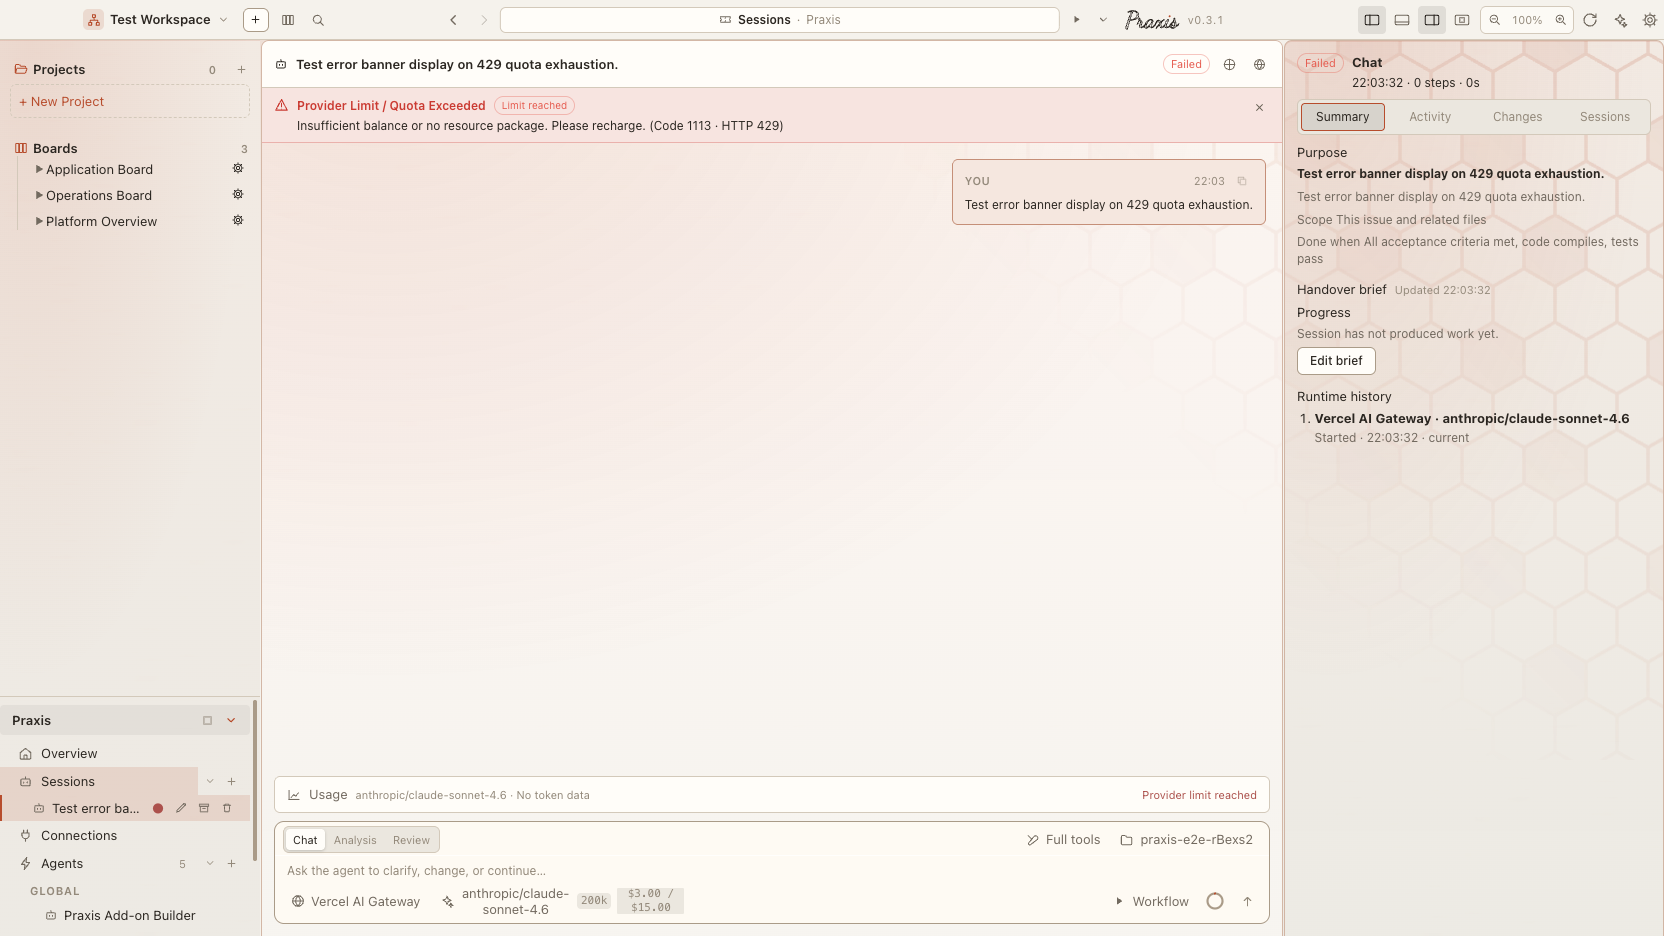
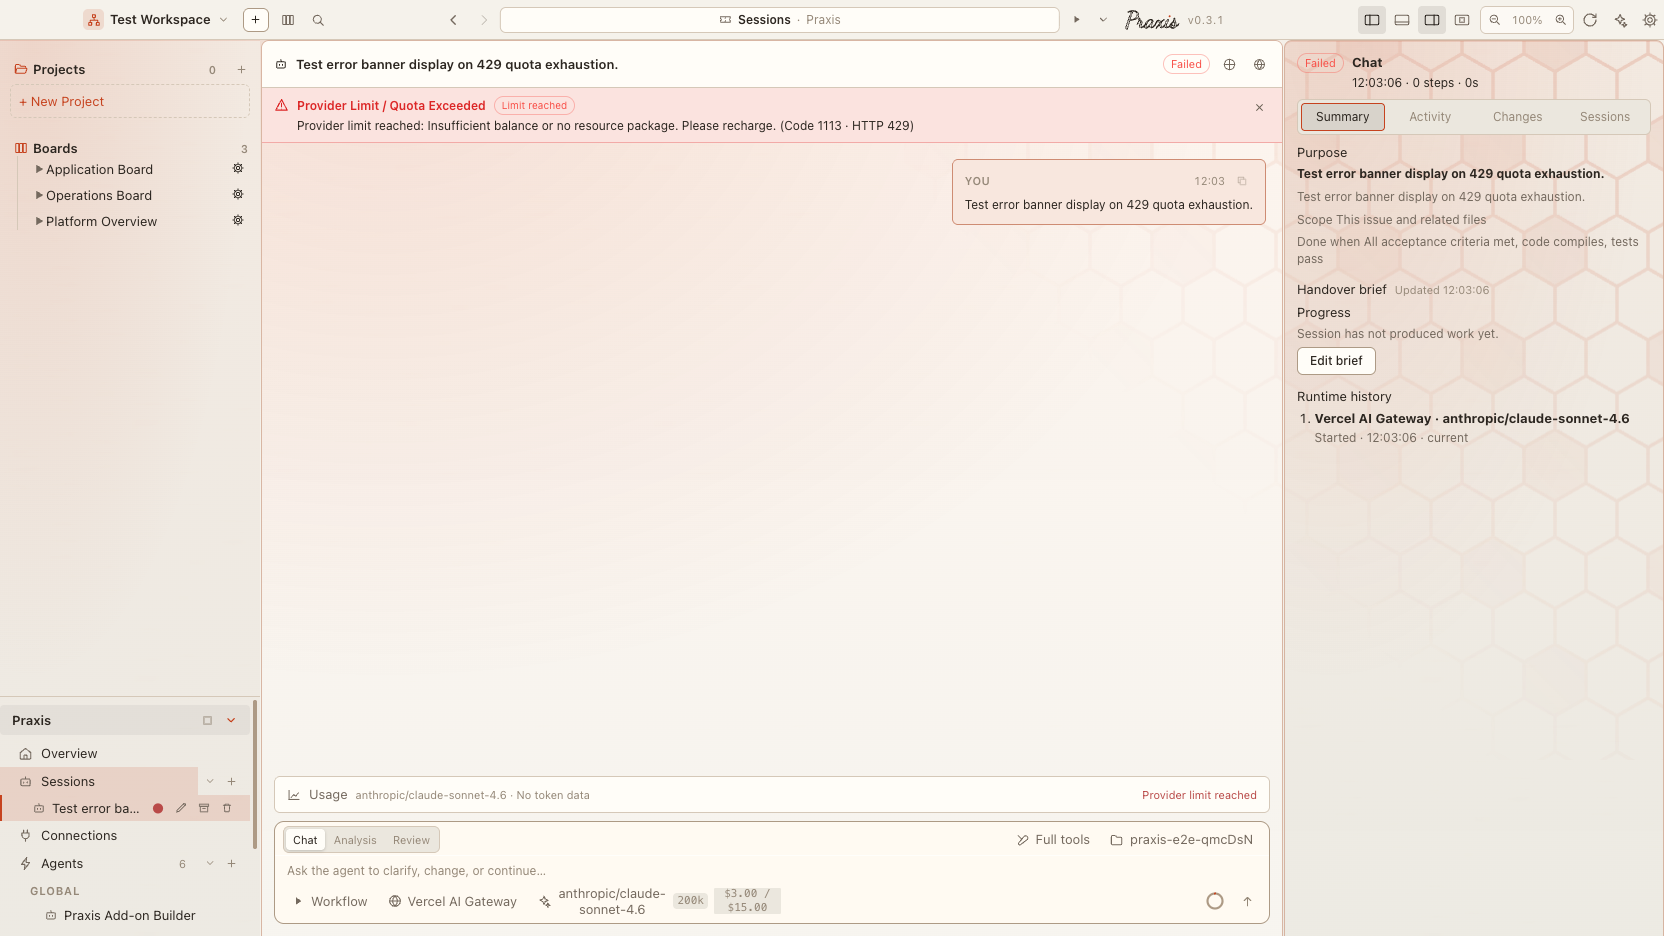
fix(e2e): update test suite and snapshots for Praxis Test contracts and 6th bundled agent

diff --git a/apps/praxis-desktop/renderer/src/ai/SessionsPage.tsx b/apps/praxis-desktop/renderer/src/ai/SessionsPage.tsx
@@ -1515,7 +1515,11 @@ export function SessionsPage({
                 <div className="session-error-banner-content">
                   <div className="session-error-banner-header">
                     <strong className="session-error-banner-title">
-                      {isLimit ? 'Provider Limit / Budget Exceeded' : (isSelectedFailed ? 'Session Failed' : 'Error')}
+                      {isLimit
+                        ? (activeErrorMessage.toLowerCase().includes('budget') || activeErrorMessage.toLowerCase().includes('spending')
+                            ? 'Provider Limit / Budget Exceeded'
+                            : 'Provider Limit / Quota Exceeded')
+                        : (isSelectedFailed ? 'Session Failed' : 'Error')}
                     </strong>
                     {isLimit && <span className="badge badge-blocked" style={{ fontSize: '10px' }}>Limit reached</span>}
                   </div>

diff --git a/apps/praxis-desktop/main/e2e/agentHub.spec.ts b/apps/praxis-desktop/main/e2e/agentHub.spec.ts
@@ -93,8 +93,8 @@ test('the sidebar tree lists agent profiles and skills only; a profile shows its
   // Broken Agent and Live Agent are launch bindings with no profile, so they
   // stay out of primary nav (Settings -> Agent Runtime only). Seeded Praxis
   // Reviewer shares its id with a bundled profile, so it merges into that
-  // one row rather than adding a second. 5 bundled profiles total.
-  await expect(tree.getByTestId('profile-nav-item')).toHaveCount(5);
+  // one row rather than adding a second. 6 bundled profiles total.
+  await expect(tree.getByTestId('profile-nav-item')).toHaveCount(6);
   await expect(tree.getByTestId('agent-nav-item')).toHaveCount(0);
   await expect(tree.getByTestId('skill-nav-item')).toHaveCount(1);
 

diff --git a/apps/praxis-desktop/main/e2e/workflowRun.spec.ts b/apps/praxis-desktop/main/e2e/workflowRun.spec.ts
@@ -111,9 +111,10 @@ test('runs the governed pipeline: parallel branches converge, then approval unlo
   const gatesNode = runDetail.getByRole('button', { name: /^Gates / });
   await expect(runDetail.getByRole('status')).toContainText(/waiting for the next stage|Stage in progress|Plan/i);
 
-  // Plan → Implement are serial (Implement writes the worktree).
+  // Plan → Implement → Praxis Test contracts are serial (Implement writes the worktree).
   await markDone(page, 'Plan');
   await markDone(page, 'Implement');
+  await markDone(page, 'Praxis Test contracts');
 
   // Review and Security are ready at once; QA waits for the dependencies to be installed and built.
   await markDone(page, 'Install dependencies');
